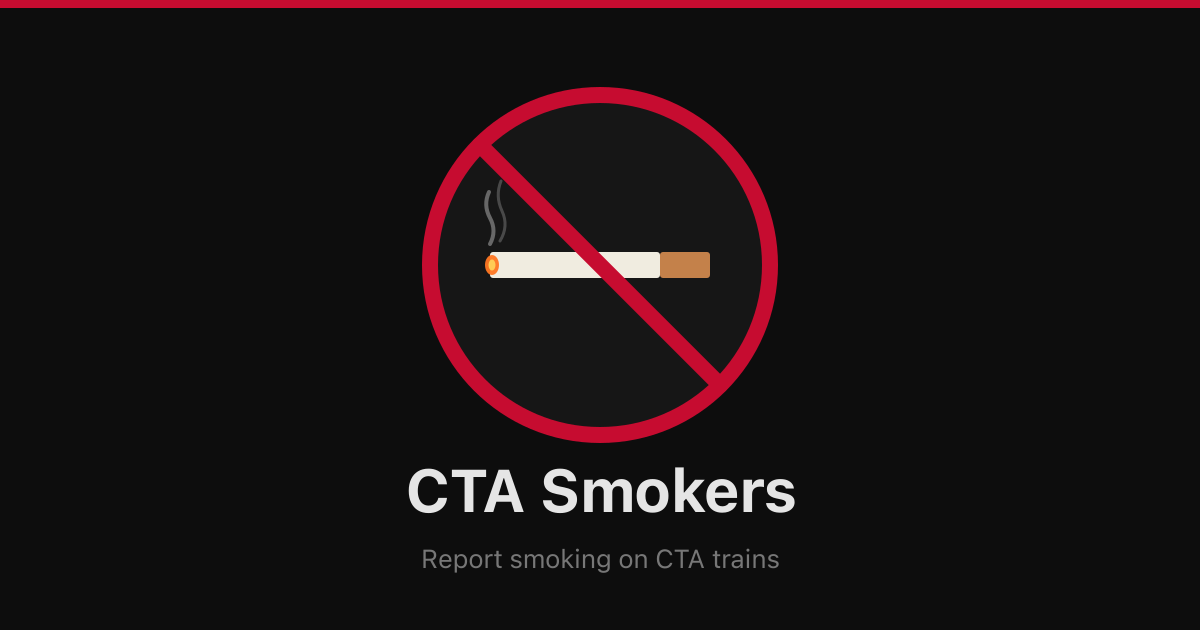
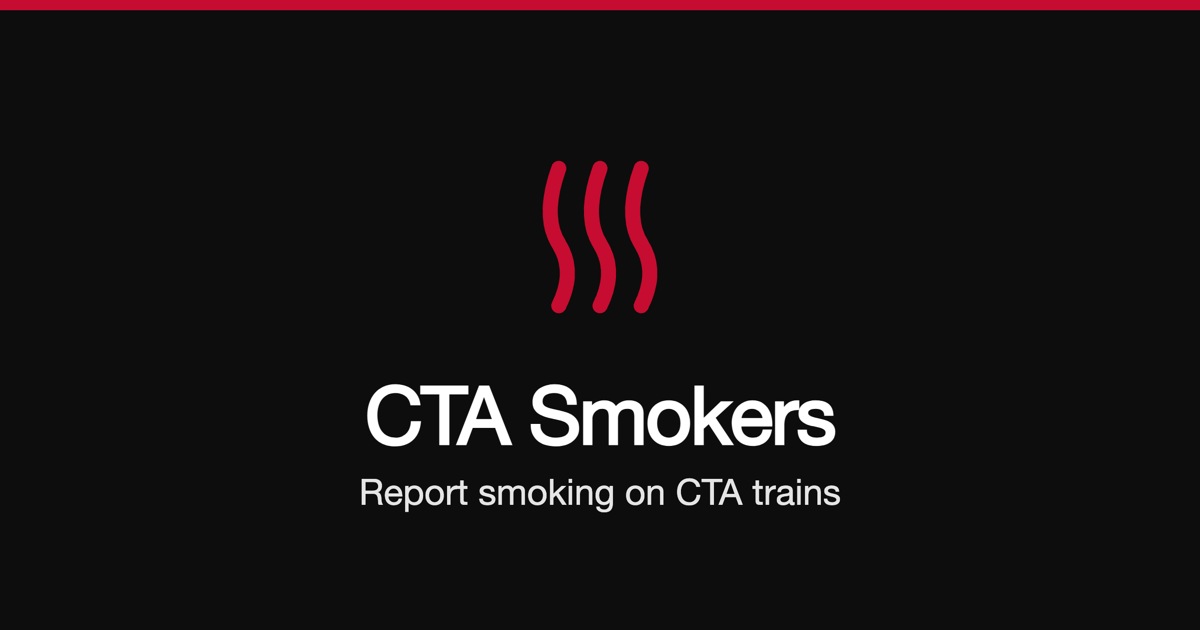
fix: enable SSR for homepage/report so social crawlers see OG/Twitter card tags
The homepage and stats pages used ssr=false, so <svelte:head> og/twitter
meta tags never reached the static HTML crawlers see (only client-side
JS injected them). Separately, adapter-static's fallback: 'index.html'
was silently overwriting the prerendered homepage's index.html with the
empty SPA shell, stripping tags even after prerendering was enabled.

- Enable prerender+ssr for the homepage; guard onDestroy's document/window
  access (onDestroy runs during SSR, unlike onMount) so it doesn't crash
  the server render.
- Give /stats its own prerendered client-only shell (prerender=true,
  ssr=false) instead of relying on the shared SPA fallback, and drop the
  fallback option so adapter-static can't clobber another route's file.
- Add og:image/twitter:image tags and bump twitter:card to
  summary_large_image on the homepage and /report.
- Replace static/og-image.png with a new 1200x630 design.

Changed region(s): [[0.2775, 0.1206, 0.7092, 0.8143], [0.0, 0.0, 1.0, 0.0302], [0.3392, 0.8746, 0.6475, 0.9048]]

diff --git a/src/routes/+page.svelte b/src/routes/+page.svelte
@@ -1,5 +1,6 @@
 <script lang="ts">
 	import { onMount, onDestroy } from 'svelte';
+	import { browser } from '$app/environment';
 	import { afterNavigate } from '$app/navigation';
 	import { fetchReportsForDate } from '$lib/api';
 	import type { SmokingReportResponse } from '$lib/types';
@@ -208,8 +209,10 @@
 	onDestroy(() => {
 		clearInterval(interval);
 		if (debounceTimer) clearTimeout(debounceTimer);
-		document.removeEventListener('visibilitychange', onVisible);
-		window.removeEventListener('focus', onVisible);
+		if (browser) {
+			document.removeEventListener('visibilitychange', onVisible);
+			window.removeEventListener('focus', onVisible);
+		}
 	});
 
 	let availableLines = $derived(LINE_ORDER.filter((l) => reports.some((r) => r.line === l)));
@@ -226,6 +229,10 @@
 	<meta property="og:description" content="See active smoking reports on CTA trains in real time. Help keep Chicago Transit Authority rail lines smoke-free." />
 	<meta property="og:url" content="https://ctasmokers.com/" />
 	<meta property="og:type" content="website" />
+	<meta property="og:image" content="https://ctasmokers.com/og-image.png" />
+	<meta property="og:image:width" content="1200" />
+	<meta property="og:image:height" content="630" />
+	<meta name="twitter:image" content="https://ctasmokers.com/og-image.png" />
 </svelte:head>
 
 <div class="flex items-center justify-between mb-4">

diff --git a/src/routes/report/+page.svelte b/src/routes/report/+page.svelte
@@ -108,6 +108,10 @@
 	<meta property="og:description" content="Report a smoker on any CTA L line and help keep Chicago's trains smoke-free." />
 	<meta property="og:url" content="https://ctasmokers.com/report" />
 	<meta property="og:type" content="website" />
+	<meta property="og:image" content="https://ctasmokers.com/og-image.png" />
+	<meta property="og:image:width" content="1200" />
+	<meta property="og:image:height" content="630" />
+	<meta name="twitter:image" content="https://ctasmokers.com/og-image.png" />
 </svelte:head>
 
 <div class="max-w-lg mx-auto">

diff --git a/src/app.html b/src/app.html
@@ -6,7 +6,7 @@
 		<link rel="icon" href="%sveltekit.assets%/favicon.svg" type="image/svg+xml" />
 		<link rel="icon" href="%sveltekit.assets%/favicon-32x32.png" type="image/png" sizes="32x32" />
 		<link rel="apple-touch-icon" sizes="180x180" href="%sveltekit.assets%/apple-touch-icon.png" />
-		<meta name="twitter:card" content="summary" />
+		<meta name="twitter:card" content="summary_large_image" />
 		<style>html,body{background-color:#0d0d0d;color:#e5e5e5}</style>
 		%sveltekit.head%
 	</head>

diff --git a/svelte.config.js b/svelte.config.js
@@ -3,9 +3,7 @@ import adapter from '@sveltejs/adapter-static';
 /** @type {import('@sveltejs/kit').Config} */
 const config = {
 	kit: {
-		adapter: adapter({
-			fallback: 'index.html'
-		})
+		adapter: adapter()
 	}
 };
 

diff --git a/src/routes/+page.ts b/src/routes/+page.ts
@@ -1,1 +1,2 @@
-export const ssr = false;
+export const prerender = true;
+export const ssr = true;

diff --git a/src/routes/stats/+page.ts b/src/routes/stats/+page.ts
@@ -1,1 +1,2 @@
+export const prerender = true;
 export const ssr = false;
